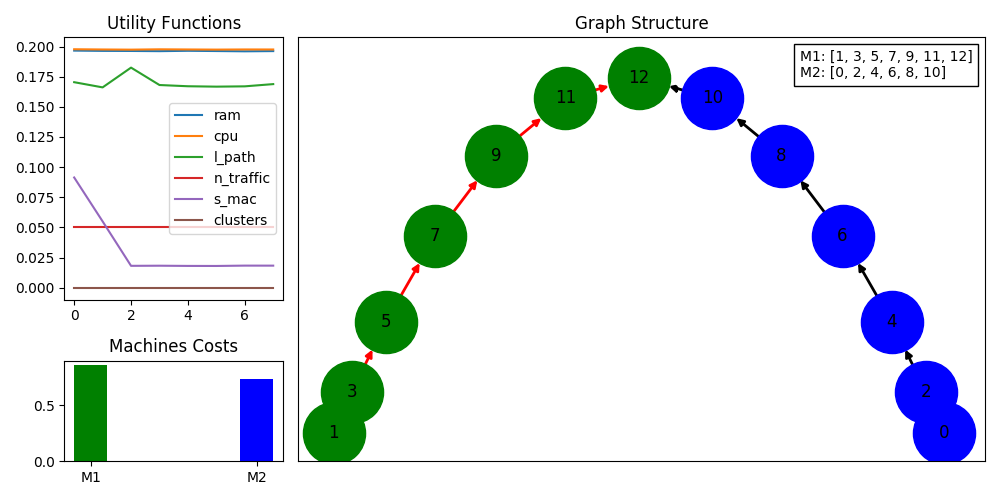
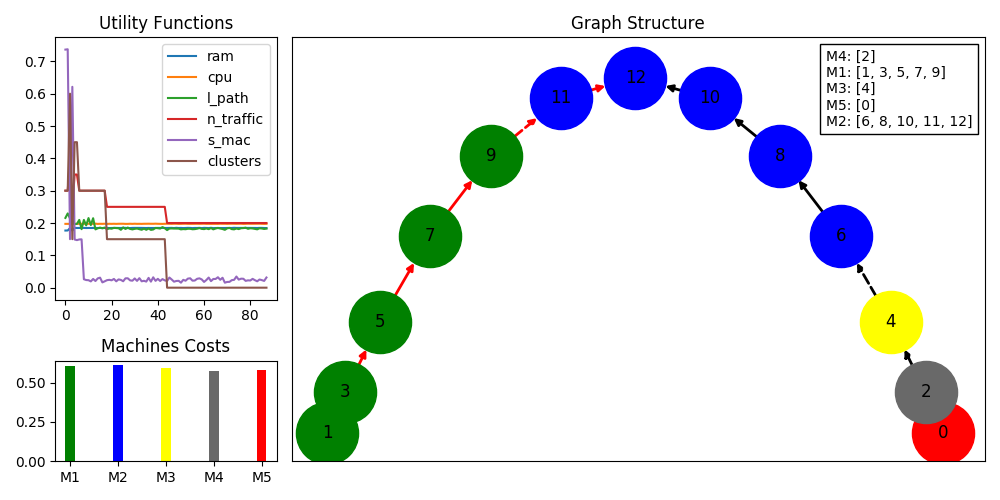
path reorganization

diff --git a/plots/validation.py b/plots/validation.py
@@ -6,26 +6,26 @@ import os
 
 if __name__ == '__main__':
     # array of files
-    graphs_data = [('P0(G0)', 'graph.json', 'machines_specs.json',
+    graphs_data = [('P0(G0)', 'graph_2.json', 'machines_specs.json',
                     ["M1", "M1", "M1", "M1", "M1", "M2", "M2", "M1"]),
                    ('P1(G1)', 'graph_3.json', 'machines_specs.json',
                     ["M1", "M2", "M1", "M2", "M1", "M2", "M1", "M2", "M1", "M2", "M1", "M2", "M2"]),
-                   ('P2(G2)', 'graph_2.json', 'machines_specs_1.json',
+                   ('P2(G2)', 'graph.json', 'machines_specs_1.json',
                     ["M1", "M1", "M1", "M1", "M1", "M2", "M5", "M2", "M3", "M2", "M4", "M2", "M2"]),
-                   ('P3(G2)', 'graph_2.json', 'machines_specs_1.json',
+                   ('P3(G2)', 'graph.json', 'machines_specs_1.json',
                     ["M2", "M2", "M2", "M1", "M1", "M1", "M1", "M1", "M4", "M5", "M1", "M3", "M2"])]
     table = [[], [], ["2/2", "2/2", "5/5", "6/5"]]
-    rows = ['vertices', 'network/edges', 'macs/clusters']
+    rows = ['vertices', 'edges', 'clusters']
     cost_data = dict()
     # configurations to validate
     root_path = os.path.dirname(sys.path[0])
-    functions_path = os.path.join(root_path, 'resources', 'function_req.json')
+    functions_path = os.path.join(root_path, 'resources', 'profiling', 'function_req.json')
 
     # for each file
     for name, file_name, machine_specs, placement in graphs_data:
         # graph path
-        graph_path = os.path.join(root_path, 'resources', file_name)
-        machines_path = os.path.join(root_path, 'resources', machine_specs)
+        graph_path = os.path.join(root_path, 'resources', 'graphs', file_name)
+        machines_path = os.path.join(root_path, 'resources', 'machine_specs', machine_specs)
         # creates the simulation graph
         simulation = GraphManager(graph_path, machines_path, functions_path)
         simulation.update_combination(placement)
@@ -44,15 +44,18 @@ if __name__ == '__main__':
     x = np.arange(len(cost_data)) + 0.6
     print(x)
     ram = [costs['ram'] for name, costs in cost_data.items()]
-    plt.bar(x - 0.2, ram, width=0.1, color='b', align='center', label='ram')
+    plt.bar(x - 0.25, ram, width=0.1, color='b', align='center', label='ram')
     cpu = [costs['cpu'] for name, costs in cost_data.items()]
-    plt.bar(x - 0.1, cpu, width=0.1, color='r', align='center', label='cpu')
+    plt.bar(x - 0.15, cpu, width=0.1, color='r', align='center', label='cpu')
     path = [costs['l_path'] for name, costs in cost_data.items()]
-    plt.bar(x, ram, width=0.1, color='g', align='center', label='path')
+    plt.bar(x - 0.05, ram, width=0.1, color='g', align='center', label='path')
     traffic = [costs['n_traffic'] for name, costs in cost_data.items()]
-    plt.bar(x + 0.1, traffic, width=0.1, color='yellow', align='center', label='traffic')
+    plt.bar(x + 0.05, traffic, width=0.1, color='yellow', align='center', label='traffic')
     diff = [costs['s_mac'] for name, costs in cost_data.items()]
-    plt.bar(x + 0.2, diff, width=0.1, color='brown', align='center', label='diff')
+    plt.bar(x + 0.15, diff, width=0.1, color='brown', align='center', label='diff')
+    clusters = [costs['clusters'] for name, costs in cost_data.items()]
+    plt.bar(x + 0.25, clusters, width=0.1, color='lightblue', align='center', label='cluster')
+
     plt.ylim([0, 0.4])
     plt.ylabel("Normalized Costs")
 

diff --git a/simulation/main.py b/simulation/main.py
@@ -13,9 +13,9 @@ if __name__ == '__main__':
     # get the resources paths
     root_path = os.path.dirname(sys.path[0])
     # default relative paths
-    graph_rpath = os.path.join('resources', 'graph_3.json')
-    machines_rpath = os.path.join('resources', 'machines_specs.json')
-    functions_rpath = os.path.join('resources', 'function_req.json')
+    graph_rpath = os.path.join('resources', 'graphs', 'graph.json')
+    machines_rpath = os.path.join('resources', 'machine_specs', 'machines_specs.json')
+    functions_rpath = os.path.join('resources', 'profiling', 'function_req.json')
 
     parser = argparse.ArgumentParser()
     # parses the path arguments
